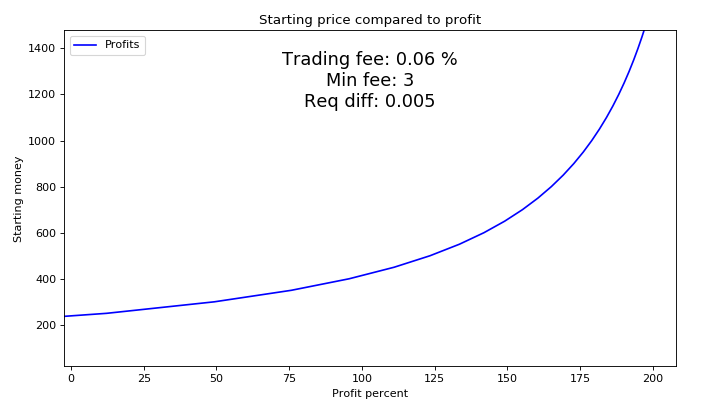
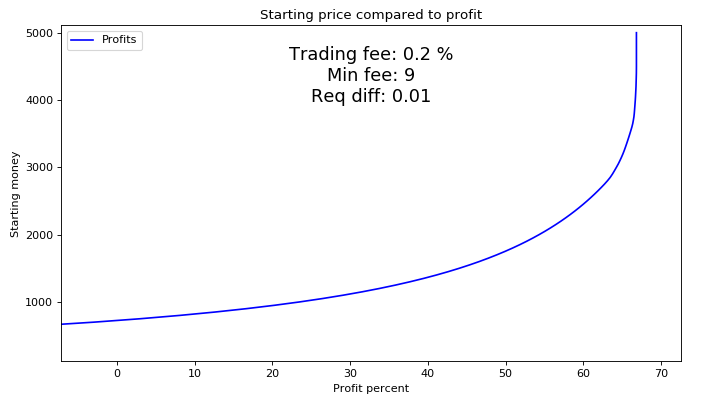
Update README

diff --git a/models/tensorflow_tests/simulation.py b/models/tensorflow_tests/simulation.py
@@ -30,7 +30,10 @@ class StockTradingSimulation:
             self.current_high_price = self.ohlc[i + 1][1]
             self.current_low_price = self.ohlc[i + 1][2]
             self.current_open_price = self.ohlc[i + 1][0]
+            self.current_low_avg_price = self.current_low_price + (self.current_high_price - self.current_low_price) * 0.3
+            self.current_high_avg_price = self.current_low_price + (self.current_high_price - self.current_low_price) * 0.7
             self.fee_amount = 0
+
             print("Day {}".format(i + 1))
             if self.diff[i] < -self.req_diff and self.num_shares > 0:
                 self.state = "Sell"

diff --git a/models/tensorflow_tests/stock_predictor.py b/models/tensorflow_tests/stock_predictor.py
@@ -223,7 +223,7 @@ if __name__ == "__main__":
     starting_funds = list(range(50, 5050, 50))
     trading_fee = 0.2
     min_fee = 9
-    req_diff = 0.005
+    req_diff = 0.01
     profits = []
     for starting_capital in starting_funds:
         sell_list, buy_list, total_profit = StockTradingSimulation(diff=test_day_differences,

diff --git a/README.md b/README.md
@@ -78,9 +78,9 @@ Simulation runs one day at a time and tries to predict how much price will be to
 
 ![Trading fee](images/trading_fee.png)
 
-If we use low starting money in daily trading, trading fees will be too much because of the minimum fee and it will eat up our investments. Above graph suggests we should have at least 200€ for starting to not lose and not gain any money.
+If we use low starting money in daily trading, trading fees will be too much because of the minimum fee and it will eat up our investments. Above graph suggests we should have at least around 700€ for starting to not lose and not gain any money.
 
-If trading fee is 0.06% and minimum fee is 3€, we should have 3€ / (0.06% / 100) = 5000€ for most optimal profit. If we have trading fee of 0.2% and minimum fee of 9€, then we should have 9€ / (0.2% / 100) = 4500€ for most optimal profit. These are actual trading fees from [Nordnet](https://www.nordnet.fi/palvelut-ja-tuotteet/hinnasto.html).
+If trading fee is 0.06% and minimum fee is 3€, we should have 3€ / (0.06% / 100) = 5000€ for most optimal profit. If we have trading fee of 0.2% and minimum fee of 9€, then we should have 9€ / (0.2% / 100) = 4500€ for most optimal profit. These are actual trading fees from [Nordnet](https://www.nordnet.fi/palvelut-ja-tuotteet/hinnasto.html) (2017).
 
 ### Results (Not tested in real world)
 
@@ -90,24 +90,16 @@ If trading fee is 0.06% and minimum fee is 3€, we should have 3€ / (0.06% / 
 #### TSLA
 ![Results](images/result1.png)
 
-Attributes per day explanation:
-* State - Selling / Buying / Idle
+Attributes explanation:
+* State - Sell / Buy / Idle
 * Predicted diff (Normalized) - Normalized value of predicted difference
 * Predicted diff (Original) - Original value of predicted difference
-* Predicted price (offset) - Predicted price for next day
-* Current price (offset) - Last prediction (for this day)
 * Current price - Current real price
 * Current money - Amount of money we have right now
 * Current shares - Amount of shares we have right now
-* Trading fee - How much we paid trading fee this time
+* Trading fee - How much we paid trading fee this day
 * Total worth - Our total worth now (shares + money)
 * Total profit - Our total profit right now (shares + money)
-
-Attributes of summary explanation:
-* Total paid fee - Amount of fee we have paid in total for all transactions in that 180 day period
-* Best profit - Percent for best profit we had in that 180 day period
-* Worst profit - Percent of worst profit we had in that 180 day period
-* Total money earned - Amount of money we have earned (not including starting money)
 
 ## Real-time testing
 
@@ -115,13 +107,16 @@ Attributes of summary explanation:
 |Date|Close|Predicted close|Predicted action|
 |---|---|---|---|
 |2017-10-04|36.639998999999996|36.759780553745266|idle|
+|2017-10-05|36.810001|36.91919343097305|Idle|
 
 ### NESTE.HE
 |Date|Close|Predicted close|Predicted action|
 |---|---|---|---|
 |2017-10-04|37.099998|36.68982252117914|Sell|
+|2017-10-05|37.82|38.14151469195354|Buy|
 
 ### TELIA1.HE
 |Date|Close|Predicted close|Predicted action|
 |---|---|---|---|
 |2017-10-04|4.034|4.013893317222595|Idle|
+|2017-10-05|4.084|4.125221947669982|Buy|
